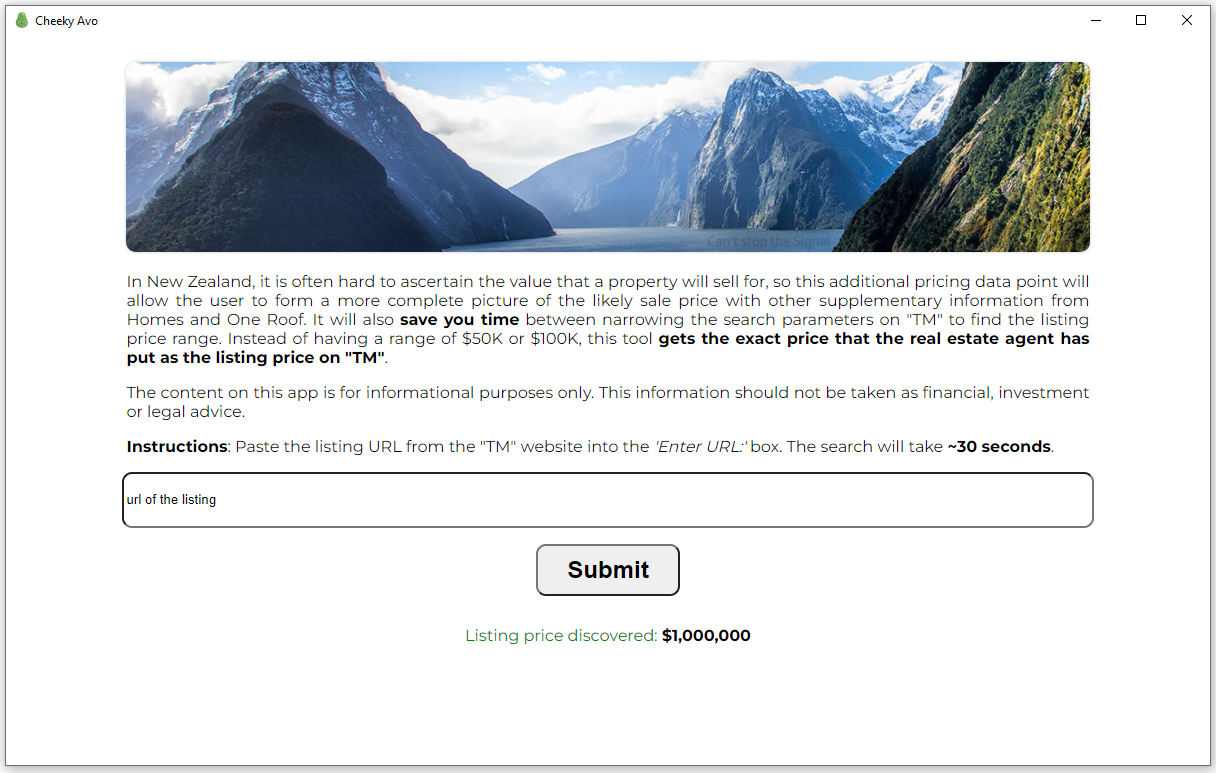
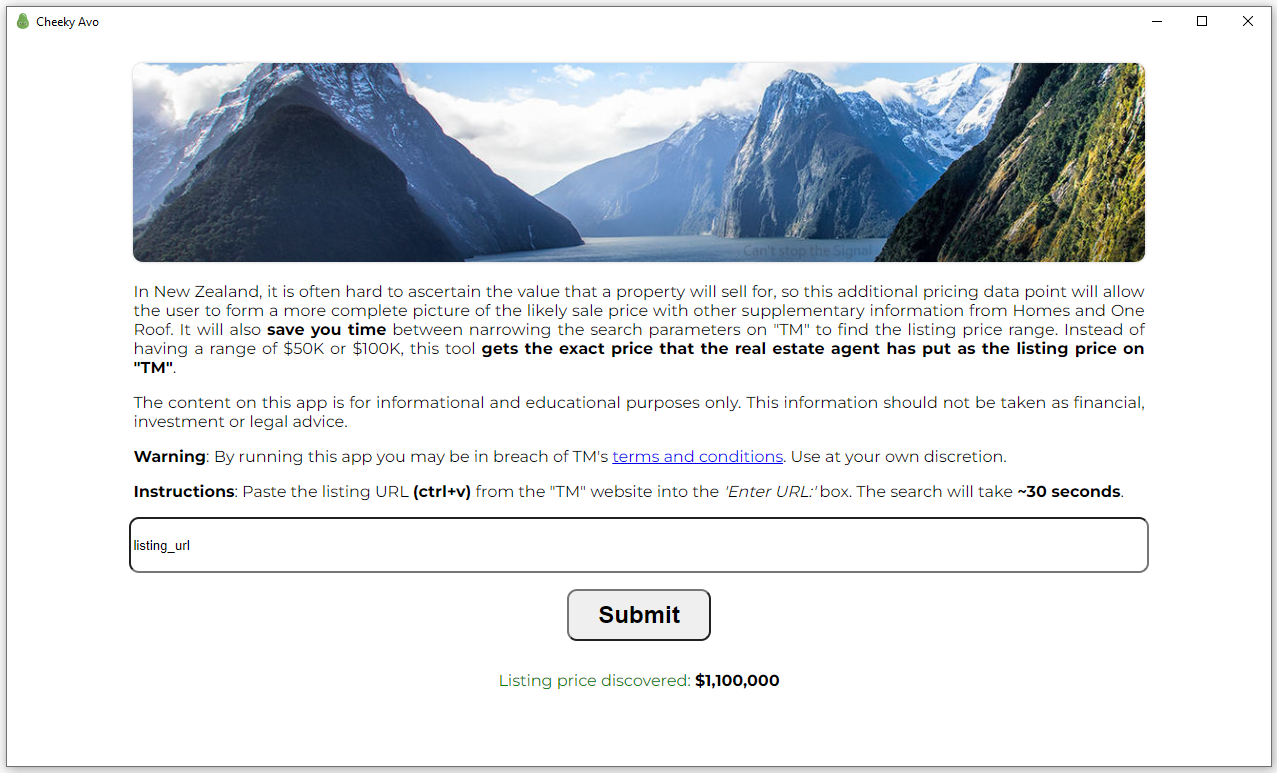
fixed JS not running properly on some machines

diff --git a/src/app/app.component.html b/src/app/app.component.html
@@ -5,7 +5,9 @@
   <div class="explanation">
     <p>In New Zealand, it is often hard to ascertain the value that a property will sell for, so this additional pricing data point will allow the user to form a more complete picture of the likely sale price with other supplementary information from Homes and One Roof. It will also <b>save you time</b> between narrowing the search parameters on "TM" to find the listing price range. Instead of having a range of $50K or $100K, this tool <b>gets the exact price that the real estate agent has put as the listing price on "TM"</b>.</p>
 
-    <p>The content on this app is for informational purposes only. This information should not be taken as financial, investment or legal advice.</p>
+    <p>The content on this app is for informational and educational purposes only. This information should not be taken as financial, investment or legal advice.</p>
+
+    <p><b>Warning</b>: By running this app you may be in breach of TM's <a href="https://help.trademe.co.nz/hc/en-us/articles/360007001532-Trade-Me-site-terms-and-conditions" target="blank">terms and conditions</a>. Use at your own discretion.</p>
 
     <p><b>Instructions</b>: Paste the listing URL <b>(ctrl+v)</b> from the "TM" website into the <i>'Enter URL:'</i> box. The search will take <b>~30 seconds</b>.</p>
 

diff --git a/app.js b/app.js
@@ -13,14 +13,15 @@ const createWindow = () => {
     width: 1280,
     height: 768,
     autoHideMenuBar: true,
-    icon: path.join(__dirname, '/dist/cheekyavo/favicon.ico')
+    icon: path.join(__dirname, '/dist/cheekyavo/favicon.ico'),
+    webPreferences: { nodeIntegration: false }
   });
 
   // and load the index.html of the app.
   mainWindow.loadFile(path.join(__dirname, '/dist/cheekyavo/index.html'));
 
   // Open the DevTools.
-  mainWindow.webContents.openDevTools();
+  // mainWindow.webContents.openDevTools();
 };
 
 // This method will be called when Electron has finished

diff --git a/src/app/providers/price.service.ts b/src/app/providers/price.service.ts
@@ -130,8 +130,6 @@ export class PriceService {
 
       const url = `https://www.trademe.co.nz/a/property/residential/sale/${listingDetails.region}/${listingDetails.district}/${listingDetails.suburb}/search?price_min=${min}&price_max=${max}&search_string=${listingDetails.title}`;
 
-      console.log('url', url);
-
       try {
 
         let html = '';

diff --git a/src/app/app.component.ts b/src/app/app.component.ts
@@ -48,7 +48,7 @@ export class AppComponent implements AfterViewInit {
 
     } else {
 
-      // Check listings up to 5 million
+      // Check listings up to 10 million
       this.priceService.getListingPrice(listingDetails, 0, 10000000).then((results) => {
 
 
